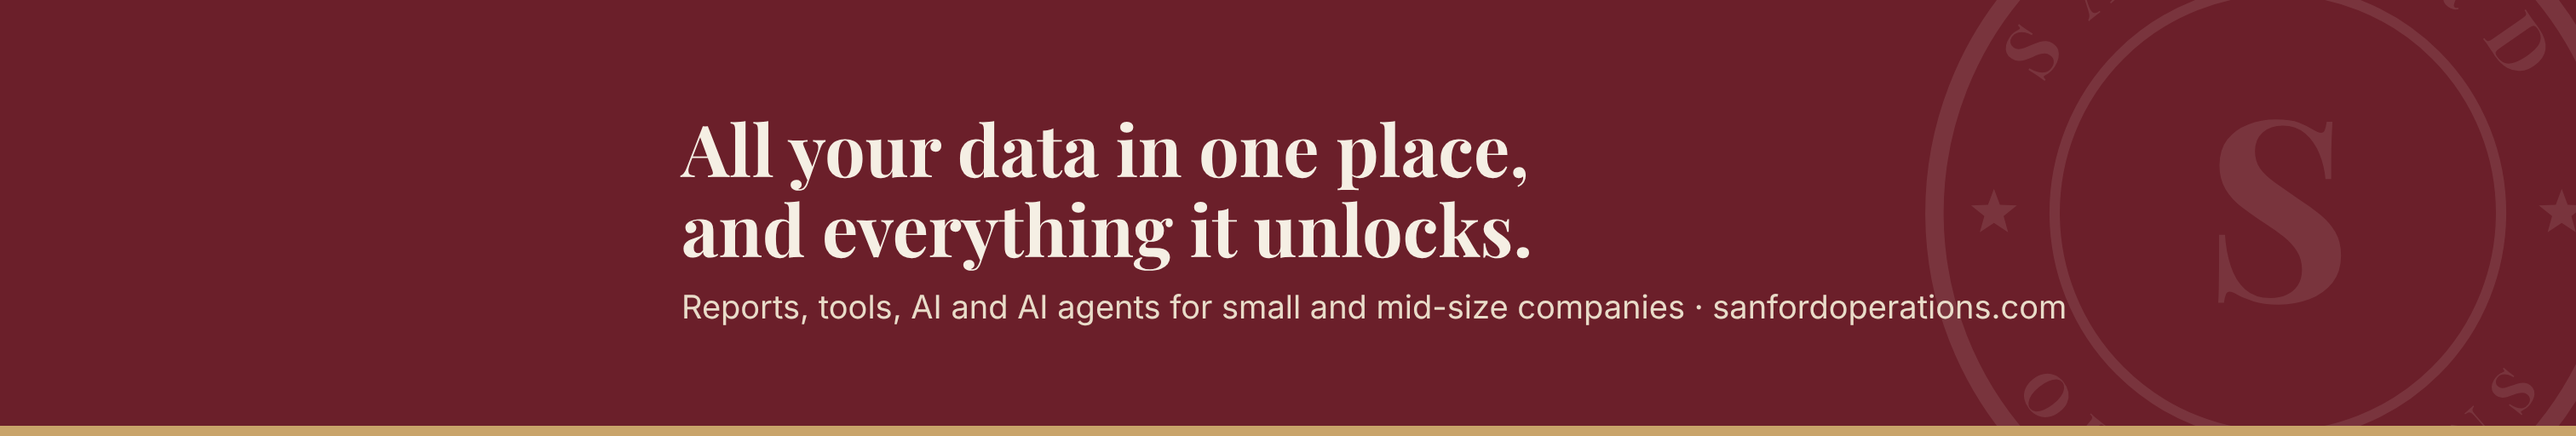
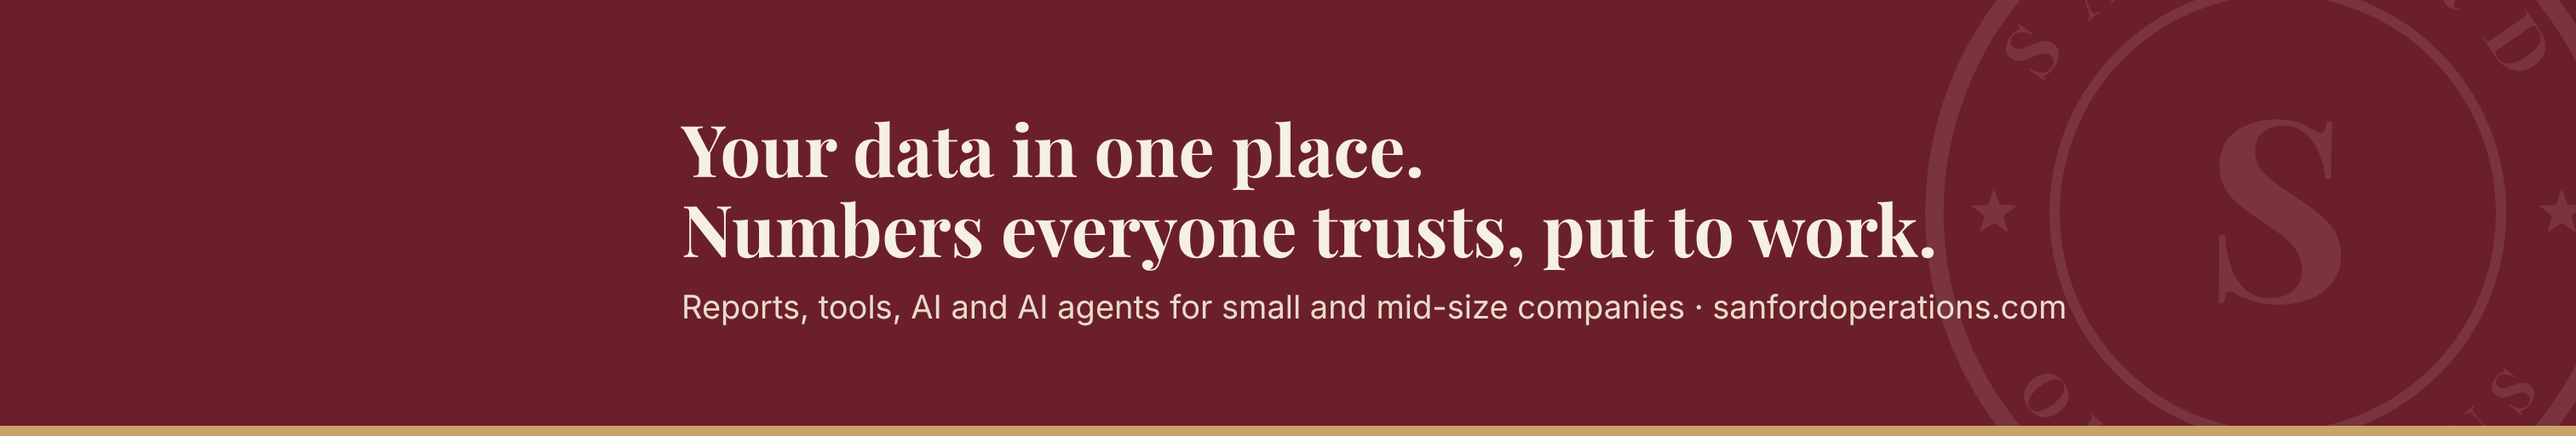
New tagline: Your data in one place. Numbers everyone trusts, put to work.
Website headline and What we build page, diagram label, one-pager,
LinkedIn kit text and images, and the decision log.

Claude-Session: https://claude.ai/code/session_0193QCEcq8jstFGKxyZMzUMH

Changed region(s): [[0.2487, 0.4688, 0.7771, 0.625], [0.2487, 0.2812, 0.5906, 0.4375]]

diff --git a/website/brand/linkedin/render.js b/website/brand/linkedin/render.js
@@ -13,10 +13,10 @@ const base = `*{box-sizing:border-box;margin:0}body{overflow:hidden;position:rel
 const jobs = {
   // Personal banner 1584x396. Profile photo covers the lower left, so content sits right.
   'profile-banner.png': [1584, 396, `<body style="background:${PA};position:relative">
-    <img src="${svg('seal.svg')}" style="position:absolute;right:-70px;top:-60px;width:520px;opacity:.07">
+    <img src="${svg('seal.svg')}" style="position:absolute;right:-190px;top:-60px;width:520px;opacity:.07">
     <div style="position:absolute;left:600px;right:90px;top:72px;display:flex;flex-direction:column;gap:18px">
       <div class="eb" style="font-size:17px;color:${BR}">Sanford Operations</div>
-      <div class="pf" style="font-size:50px;line-height:1.08;color:${INK}">All your data in one place,<br>and everything it unlocks.</div>
+      <div class="pf" style="font-size:46px;line-height:1.1;color:${INK}">Your data in one place.<br>Numbers everyone trusts, put to work.</div>
       <div style="font-size:21px;color:#4f4842">Reports that build themselves · Tools · AI and AI agents</div>
       <div style="font-size:21px;font-weight:600;color:${OX}">sanfordoperations.com</div>
     </div>
@@ -25,7 +25,7 @@ const jobs = {
   'company-cover.png': [1512, 256, `<body style="background:${OX};position:relative">
     <img src="${svg('seal-reversed.svg')}" style="position:absolute;right:-40px;top:-90px;width:430px;opacity:.10">
     <div style="position:absolute;left:400px;right:120px;top:0;bottom:0;display:flex;flex-direction:column;justify-content:center;gap:12px">
-      <div class="pf" style="font-size:42px;line-height:1.1;color:${PA}">All your data in one place,<br>and everything it unlocks.</div>
+      <div class="pf" style="font-size:42px;line-height:1.1;color:${PA}">Your data in one place.<br>Numbers everyone trusts, put to work.</div>
       <div style="font-size:19px;color:${SOFT}">Reports, tools, AI and AI agents for small and mid-size companies · sanfordoperations.com</div>
     </div>
     <div style="position:absolute;left:0;right:0;bottom:0;height:6px;background:${LBR}"></div></body>`],
@@ -37,7 +37,7 @@ const jobs = {
     <img src="${svg('seal-reversed.svg')}" style="width:330px;flex:none">
     <div style="display:flex;flex-direction:column;gap:22px">
       <div class="eb" style="font-size:18px;color:${SOFT}">Now open</div>
-      <div class="pf" style="font-size:54px;line-height:1.08;color:${PA}">All your data in one place, and everything it unlocks.</div>
+      <div class="pf" style="font-size:50px;line-height:1.1;color:${PA}">Your data in one place. Numbers everyone trusts, put to work.</div>
       <div style="font-size:24px;color:${SOFT}">sanfordoperations.com</div>
     </div></body>`],
   'post-crm-ai.png': [1200, 627, `<body style="background:${PA};padding:0 90px;display:flex;flex-direction:column;justify-content:center;gap:40px">

diff --git a/website/visuals.py b/website/visuals.py
@@ -1,4 +1,4 @@
-"""Graphics for the website: icons, the "systems -> one place -> what it unlocks" diagram, and small example screens.
+"""Graphics for the website: icons, the "systems -> one place -> put to work" diagram, and small example screens.
 
 Everything is inline SVG or plain HTML styled by static/site.css (the site's security policy allows no inline styles
 or scripts), so it follows light and dark mode. All example figures are made up; most match the fictional Bluestem demo.
@@ -94,7 +94,7 @@ def hub_diagram() -> str:
                  + f'<text class="d-hub-label" x="{hub_x}" y="{hub_y + 22}" text-anchor="middle">One place</text>'
                  f'<text class="d-hub-sub" x="{hub_x}" y="{hub_y + 40}" text-anchor="middle">yours</text>')
     parts.append(f'<text class="d-col" x="{pill_w / 2}" y="12" text-anchor="middle">YOUR SYSTEMS</text>'
-                 f'<text class="d-col" x="{w - pill_w / 2}" y="12" text-anchor="middle">WHAT IT UNLOCKS</text></svg>')
+                 f'<text class="d-col" x="{w - pill_w / 2}" y="12" text-anchor="middle">PUT TO WORK</text></svg>')
     chips = lambda items, cls="": "".join(f'<span class="chip {cls}">{icon(i)}{l}</span>' for i, l in items)
     mobile = (f'<div class="hub-stack" aria-hidden="true"><div class="chips">{chips(SOURCES)}</div>'
               f'<div class="stack-arrow"></div><div class="stack-hub">{icon("db")}<strong>One place</strong><span>yours</span></div>'

diff --git a/website/pages.py b/website/pages.py
@@ -199,7 +199,7 @@ def what_we_build() -> str:
     body = f"""
 <section class="hero slim with-cta"><div class="wrap">
   <p class="eyebrow">What we build</p>
-  <h1>All your data in one place, and everything it unlocks</h1>
+  <h1>Your data in one place, put to work</h1>
   <p class="lead">Every build is custom. These are the pieces we put together, on top of the systems you already use.</p>
   {cta_row()}
 </div></section>

diff --git a/sales/linkedin.md b/sales/linkedin.md
@@ -18,10 +18,10 @@ Edit your profile, then paste each piece into the matching box.
 
 **Profile banner:** `website/brand/linkedin/profile-banner.png` (1584 × 396). Profile → the camera icon on the banner → Upload. The lower left stays clear for your photo.
 
-**Headline (option A, recommended)** (157/220 characters)
+**Headline (option A, recommended)** (153/220 characters)
 
 ```
-Founder, Sanford Operations · I bring a company’s data into one place, then build the reports, tools and AI agents it unlocks · Former COO and chief of staff
+Founder, Sanford Operations · I bring a company’s data into one place, then build the reports, tools and AI agents on top · Former COO and chief of staff
 ```
 
 Only the first 60 or so characters show next to your name in the feed, so it starts with what you do now.
@@ -92,7 +92,7 @@ Add one at a time under Skills. Pin the top two.
 
 - Link 1: https://sanfordoperations.com
 - Title: Sanford Operations
-- Description: All your data in one place, and everything it unlocks.
+- Description: Your data in one place. Numbers everyone trusts, put to work.
 - Link 2 (after the server is live): https://demo.sanfordoperations.com/guest
 - Title: Live demo: a working hub
 - Description: Click around a hub built on a fictional company’s data: scorecard, forecast, alerts and AI agents.
@@ -121,10 +121,10 @@ linkedin.com → For Business → Create a Company Page → Company.
 - Location: [Your city], Texas, United States
 - Button: Visit website → https://sanfordoperations.com/contact
 
-**Tagline** (54/120 characters)
+**Tagline** (61/120 characters)
 
 ```
-All your data in one place, and everything it unlocks.
+Your data in one place. Numbers everyone trusts, put to work.
 ```
 
 Same line as the website, so it’s recognized.
@@ -193,7 +193,7 @@ Image: `website/brand/linkedin/post-launch.png`
 ```
 Sanford Operations is open.
 
-We bring a small or mid-size company’s data into one place, then build the reports, tools, AI and AI agents it unlocks.
+We bring a small or mid-size company’s data into one place, then put it to work with reports, tools, AI and AI agents.
 
 See a working hub built on a fictional company’s data, or book a call: sanfordoperations.com
 ```

diff --git a/docs/decisions.md b/docs/decisions.md
@@ -126,6 +126,11 @@
 |---|---|---|
 | Domain and email | Buy sanfordoperations.com during Google Workspace signup (registered through Squarespace) | Simplest: Google sets up the email records. Server records are added in Squarespace's DNS page. Keep the recovery email on Noah's personal Gmail. |
 
+## 2026-10-18: tagline
+| Topic | Decision | Notes |
+|---|---|---|
+| Tagline | "Your data in one place. Numbers everyone trusts, put to work." | Replaces "All your data in one place, and everything it unlocks", which was too vague about what clients get. Where two lines fit, the same words split after the first sentence. |
+
 ## Open questions
 - Texas sales tax treatment of the retainer and hosting: ask a CPA.
 - Hosting price for hosted clients (at cost, or a set monthly fee).

diff --git a/sales/one-pager.md b/sales/one-pager.md
@@ -1,4 +1,4 @@
-# Sanford Operations: all your data in one place, and everything it unlocks
+# Sanford Operations: your data in one place. Numbers everyone trusts, put to work.
 
 **For COOs, CFOs and owners of small and mid-size companies, in any industry.**
 
